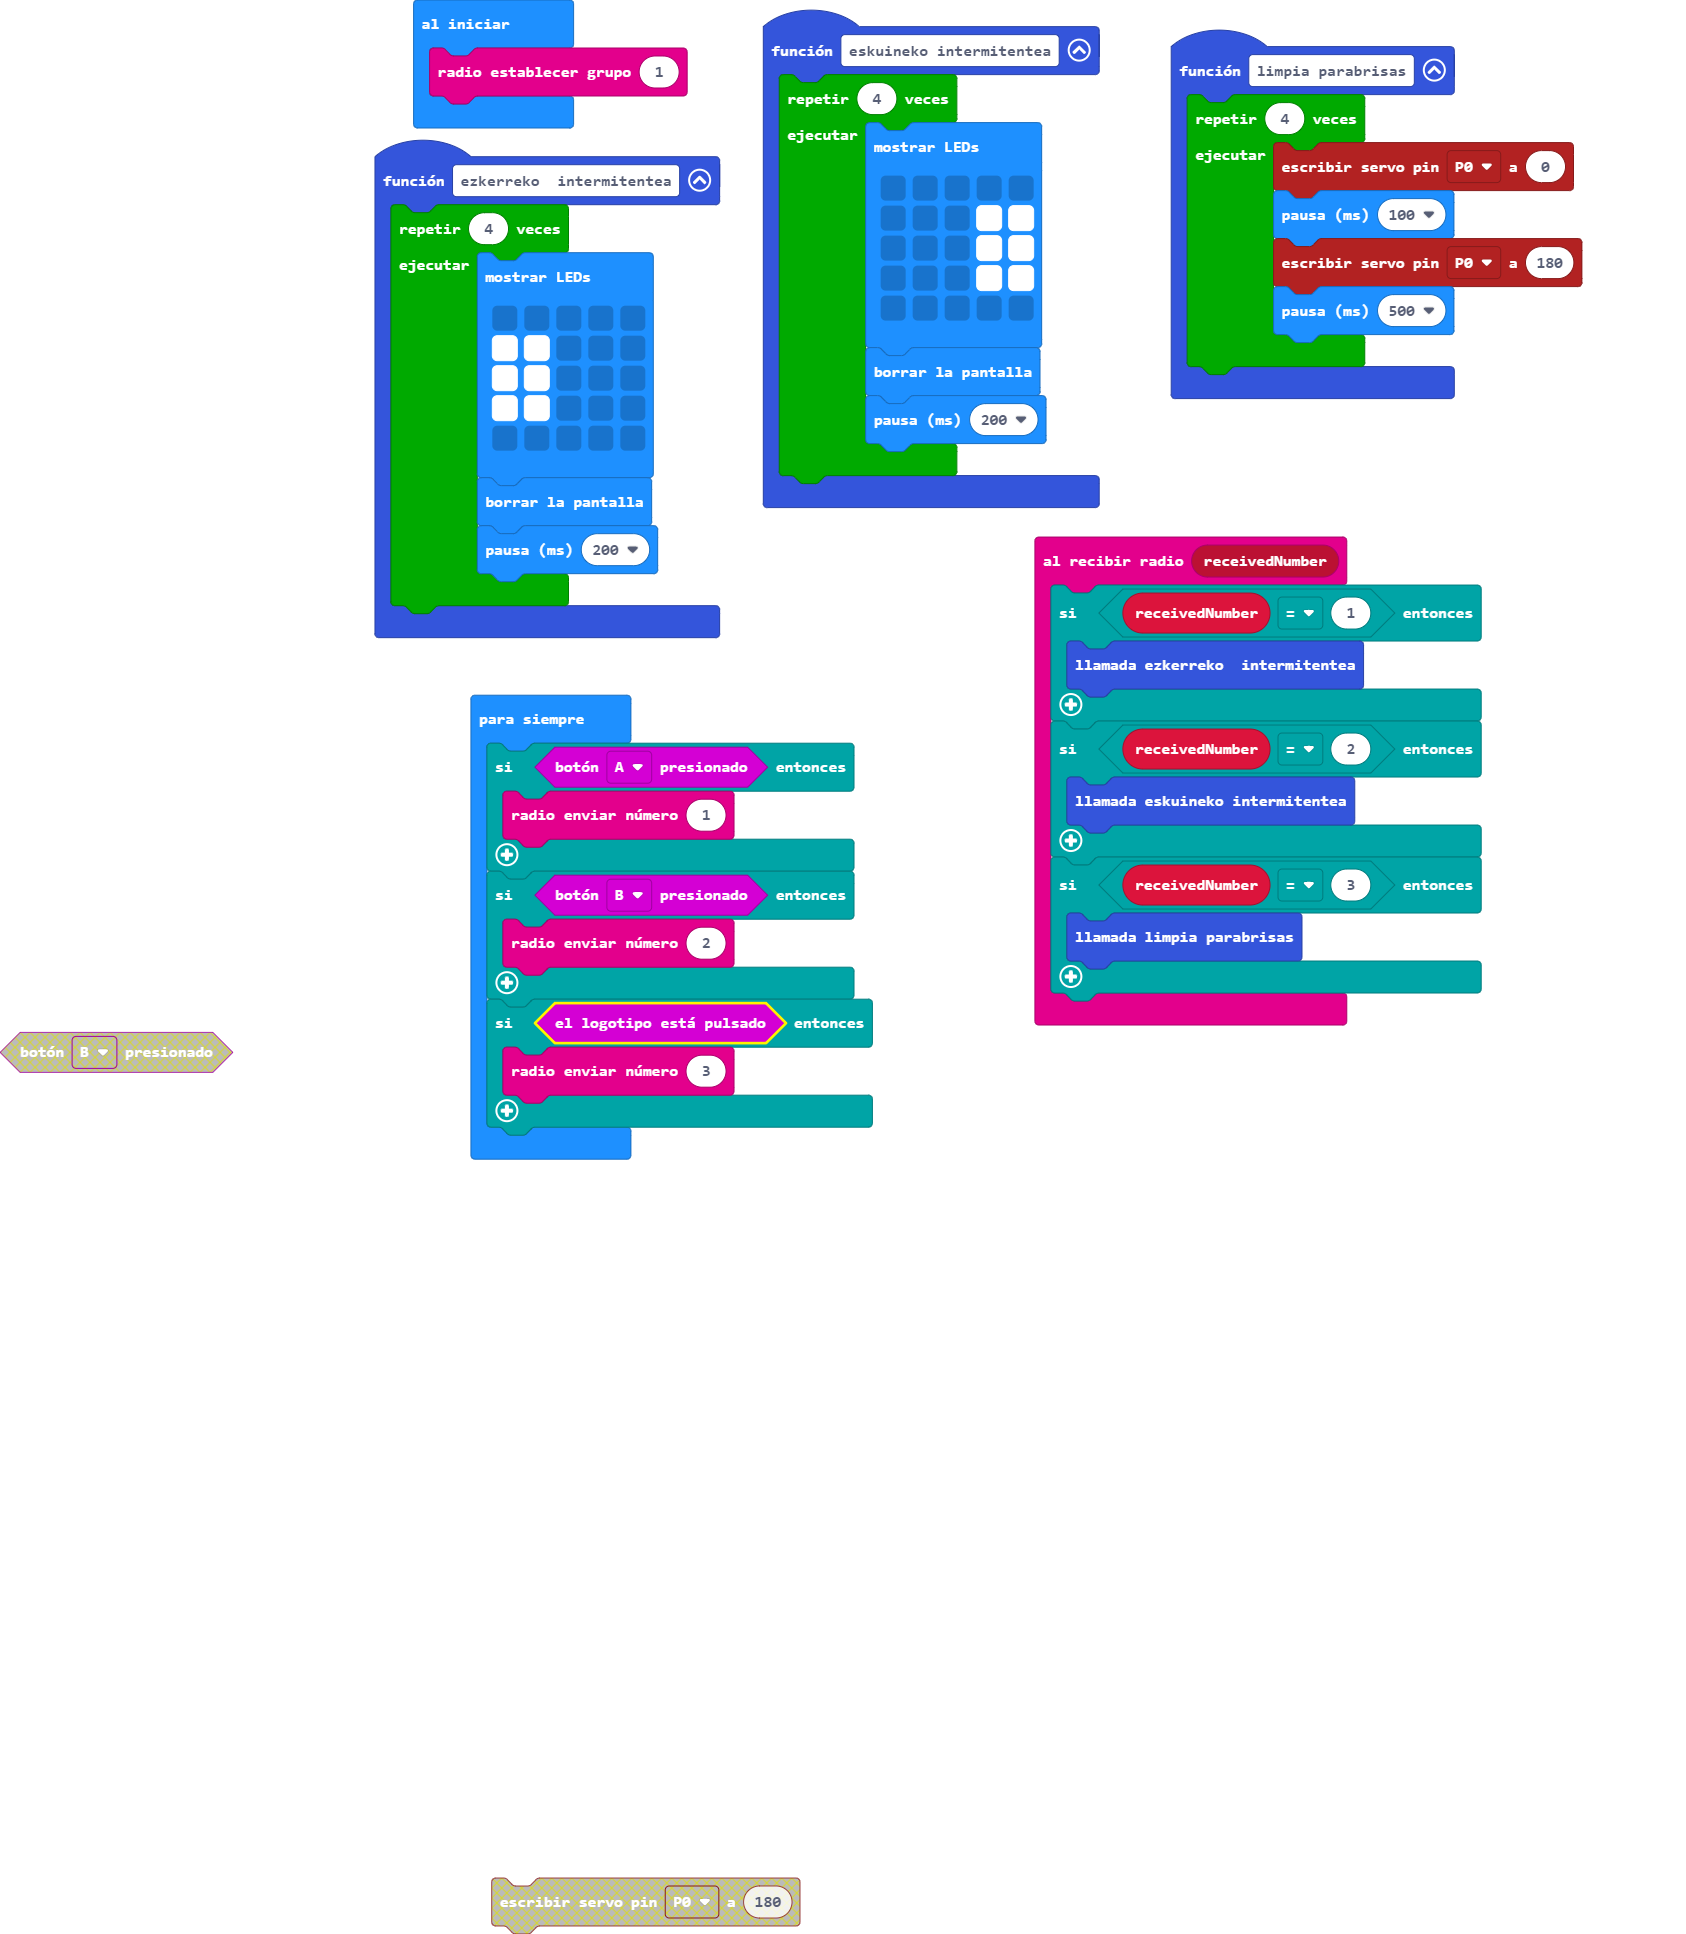
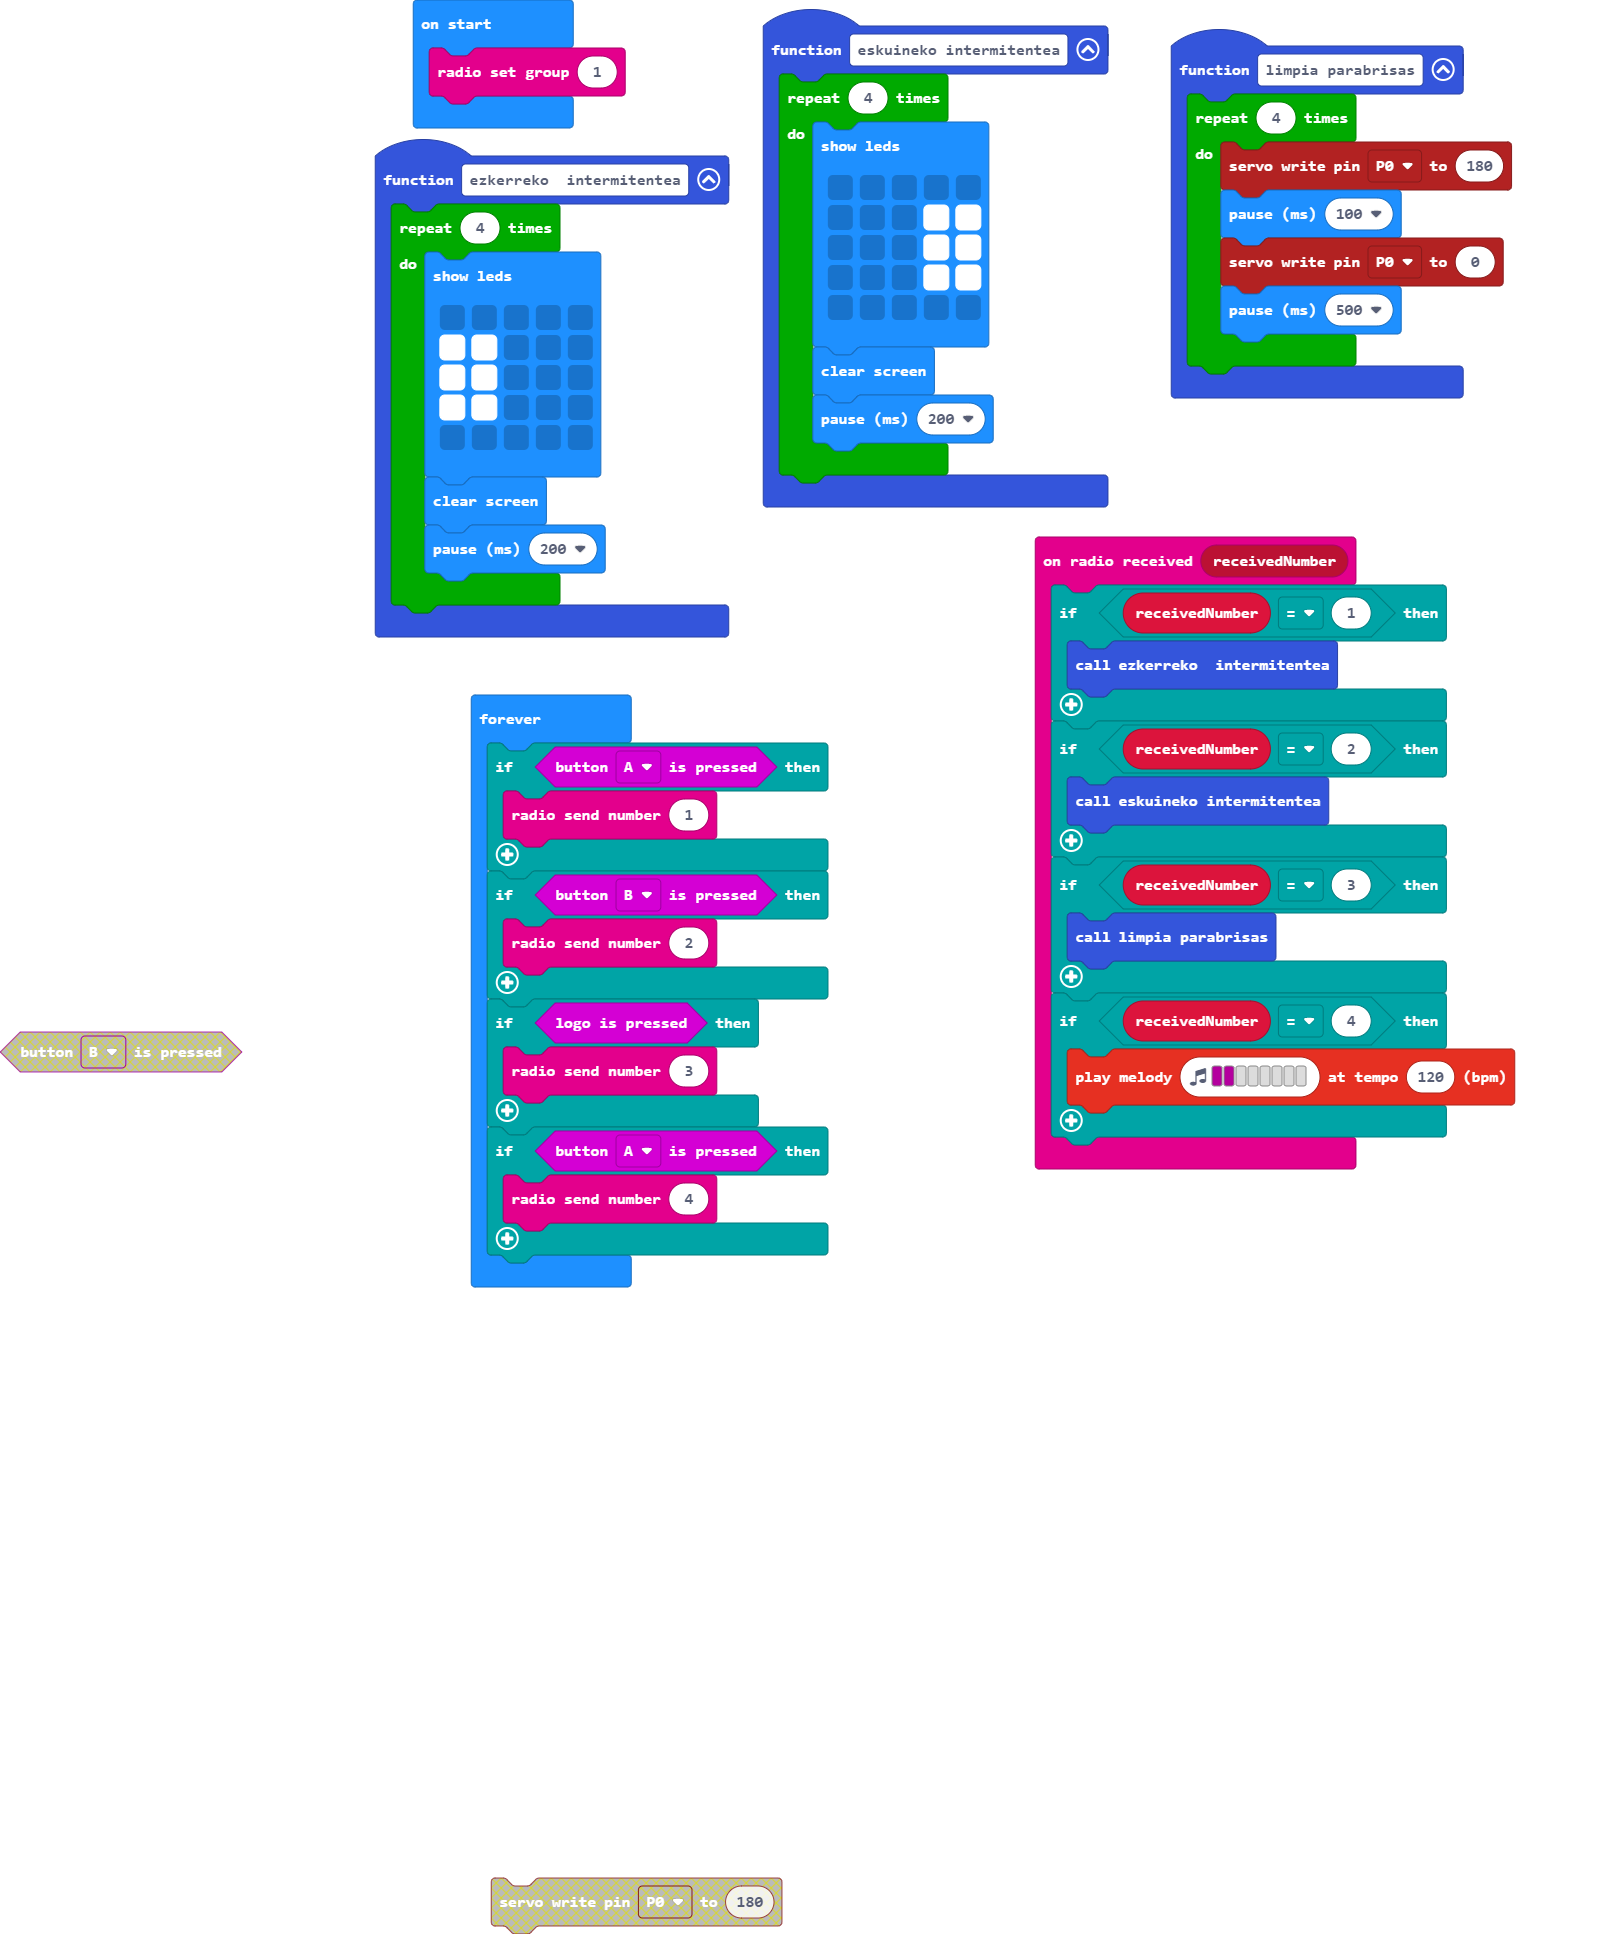
Update main.blocks, main.ts

diff --git a/main.ts b/main.ts
@@ -8,6 +8,9 @@ radio.onReceivedNumber(function (receivedNumber) {
     if (receivedNumber == 3) {
         limpia_parabrisas()
     }
+    if (receivedNumber == 4) {
+        music.playMelody("C C - - - - - - ", 120)
+    }
 })
 function ezkerreko_intermitentea () {
     for (let index = 0; index < 4; index++) {
@@ -24,9 +27,9 @@ function ezkerreko_intermitentea () {
 }
 function limpia_parabrisas () {
     for (let index = 0; index < 4; index++) {
-        pins.servoWritePin(AnalogPin.P0, 0)
-        basic.pause(100)
         pins.servoWritePin(AnalogPin.P0, 180)
+        basic.pause(100)
+        pins.servoWritePin(AnalogPin.P0, 0)
         basic.pause(500)
     }
 }
@@ -53,5 +56,8 @@ basic.forever(function () {
     }
     if (input.logoIsPressed()) {
         radio.sendNumber(3)
+    }
+    if (input.buttonIsPressed(Button.A)) {
+        radio.sendNumber(4)
     }
 })
